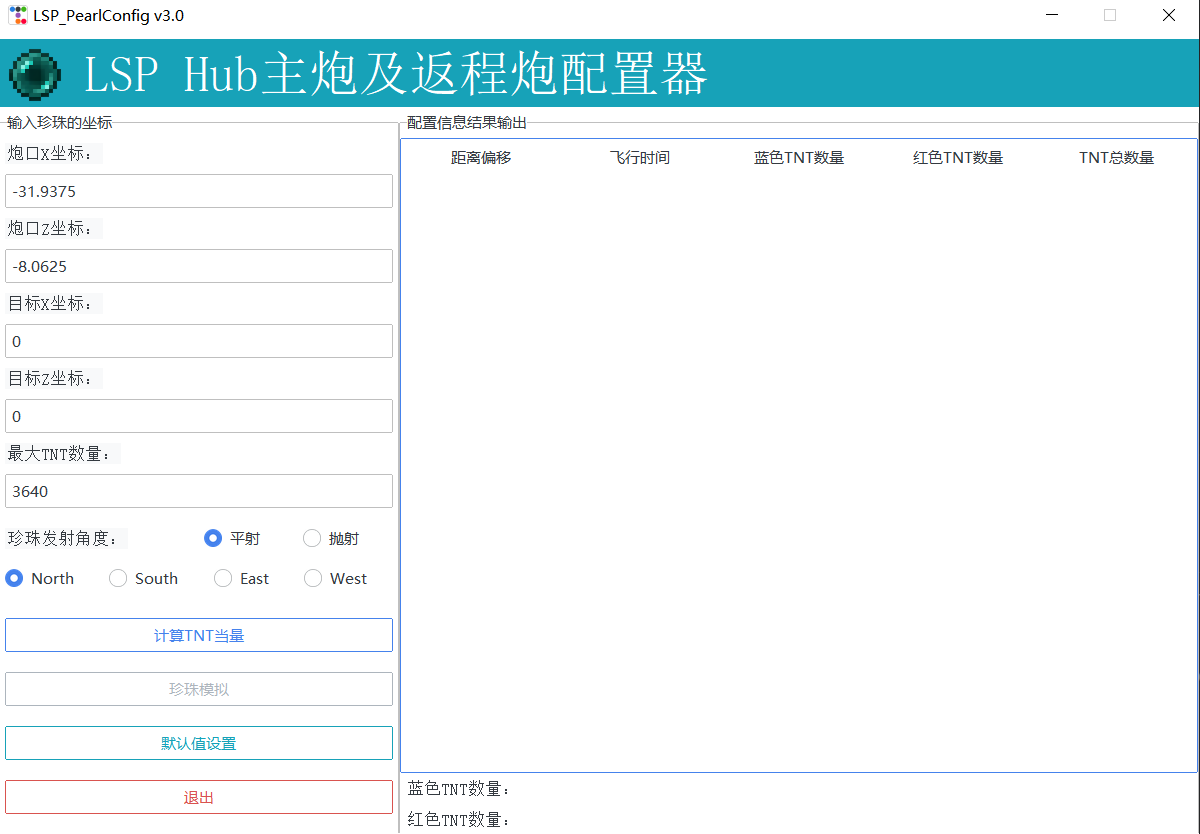
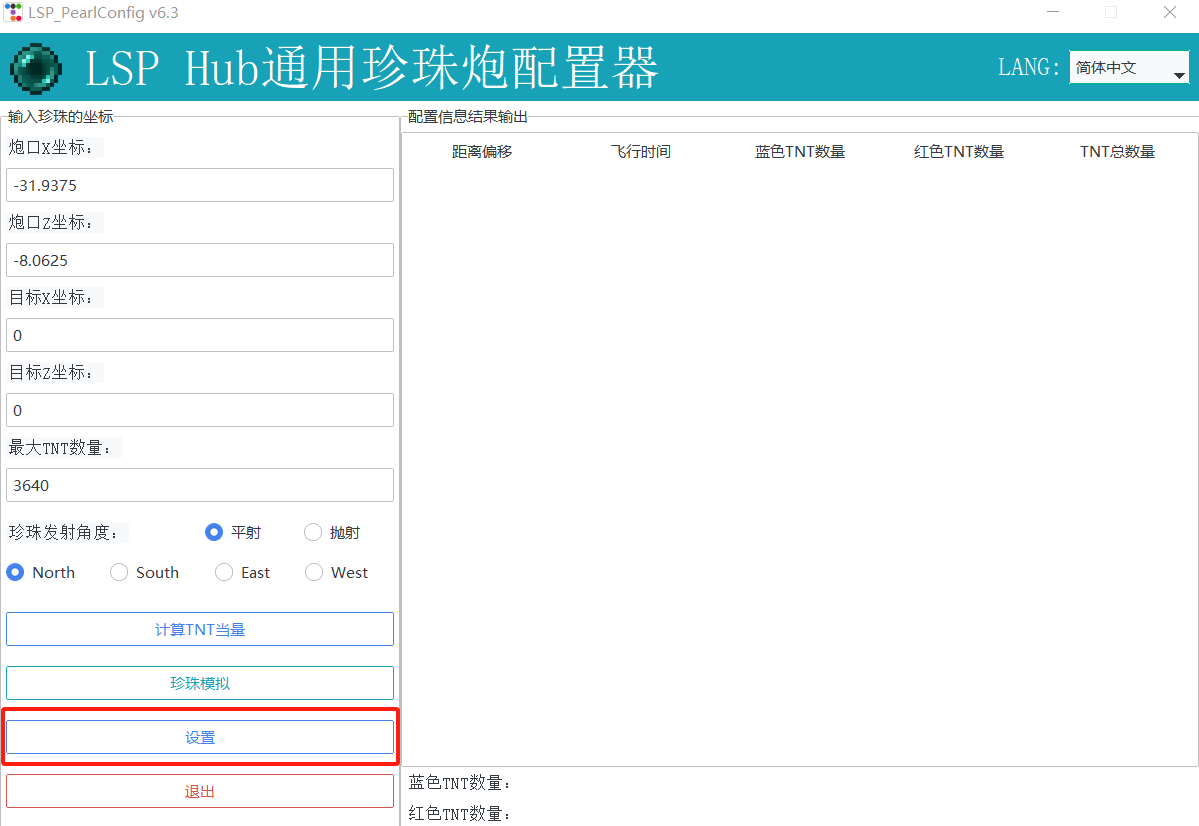
更新了README

diff --git a/README.md b/README.md
@@ -1,30 +1,42 @@
 # LSP服务器专用珍珠炮配置器
 
+> 请在release中下载最新的版本😘😘😘
+
 ### 1. 配置指南
 
-##### 第一步、打开应用填写
+##### 第一步、初始化珍珠计算器
 
-打开珍珠配置器，你会看到如下界面：
+由于不同的珍珠炮构架不同，在正式开始使用时需要进行初始配置，初始配置完成后即可持续使用；如果更换了珍珠炮，也需要重新进行初始配置。打开珍珠配置器，你会看到如下界面，点击“设置”按钮：
 
 ![1.png](./README_img/1.png)
 
-填写“目标X坐标”以及“目标Z坐标”，并选择珍珠的发射角度，即平射还是抛射。这里我们选择以平射方式前往坐标点(10000, 10000)
 
-##### 第二步、计算TNT配置并进行模拟
 
-点击按钮“计算TNT当量”，下方的按钮会显示目标点相对于炮口的方向，在右侧的“配置信息结果输出”页面中会出现配置的结果：
+接下来将弹出如下的窗口：
 
 ![2.png](./README_img/2.png)
 
-在右侧的“配置信息结果输出”页面中选中你想要的配置，点击“珍珠模拟”按钮，即可在右侧页面中看到珍珠轨迹模拟的结果，珍珠到达目的地的时刻与位置标黄便于查找。右侧页面底部显示了你选择的配置中TNT数量的详细信息，你可以按照这个更加方便的将TNT数量信息写在珍珠炮配置中。
+接下来，进入到游戏中，确保你的客户端可以输入并显示`log projectiles full`指令。如果你的珍珠炮具有抛射模式，请打开抛射开关。填写完成后，点击“预览/刷新”按钮，检查是否填写正确；填写正确则点击“使用预览中的结果”按钮，应用会自动重启并完成设置。你也可以在填写并预览无误后点击"导出设置"，将设置保存并分发给你的朋友。点击“导入设置”，将设置文件导入，预览无误后点击“使用预览中的结果”按钮即可。
 
-![3.png](./README_img/3.png)
 
-##### 另：修改输入框的默认值
 
-相信你已经注意到，打开应用时，“炮口X坐标”，“炮口Z坐标”，“最大TNT数量”这三个输入框具有默认值。如果想要更改则点击“默认值设置”按钮，在弹出的窗口中重新填写即可。填写后点击“应用”，新的默认值设置即时生效。
+##### 第二步、输入目的地，计算TNT配置并进行模拟
 
-另外，不同的珍珠炮有不同的炮口高度，珍珠也有不同的初始动量。可以在弹出的窗口中点击“导入设置”按钮用于匹配不同的珍珠炮，配置文件的生成见release中的ConfigGenerator.exe，按照提示生成即可。
+这里以前往（10000，10000）为例，填写目的地坐标，选择平射还是抛射，点击“计算TNT当量”，在右侧的“配置信息结果输出”页面中选中你想要的配置，右侧页面底部显示了你选择的配置中TNT数量的详细信息，你可以按照这个更加方便的将TNT数量信息写在珍珠炮配置中。
+
+![2.png](./README_img/3.png)
+
+
+
+随后，点击“珍珠模拟”按钮，即可在右侧页面中看到珍珠轨迹模拟的结果，珍珠到达目的地的时刻与位置标黄便于查找。
+
+![4.png](./README_img/4.png)
+
+
+
+##### 另：修改应用语言
+
+在应用主界面的右上角可以修改应用的语言，目前支持English，简体中文，繁体中文。如果需要更多语言支持请按照[这份文件](./resources/languages/languages.json)生成语言配置文件。
 
 ### 2. 配置算法
 
